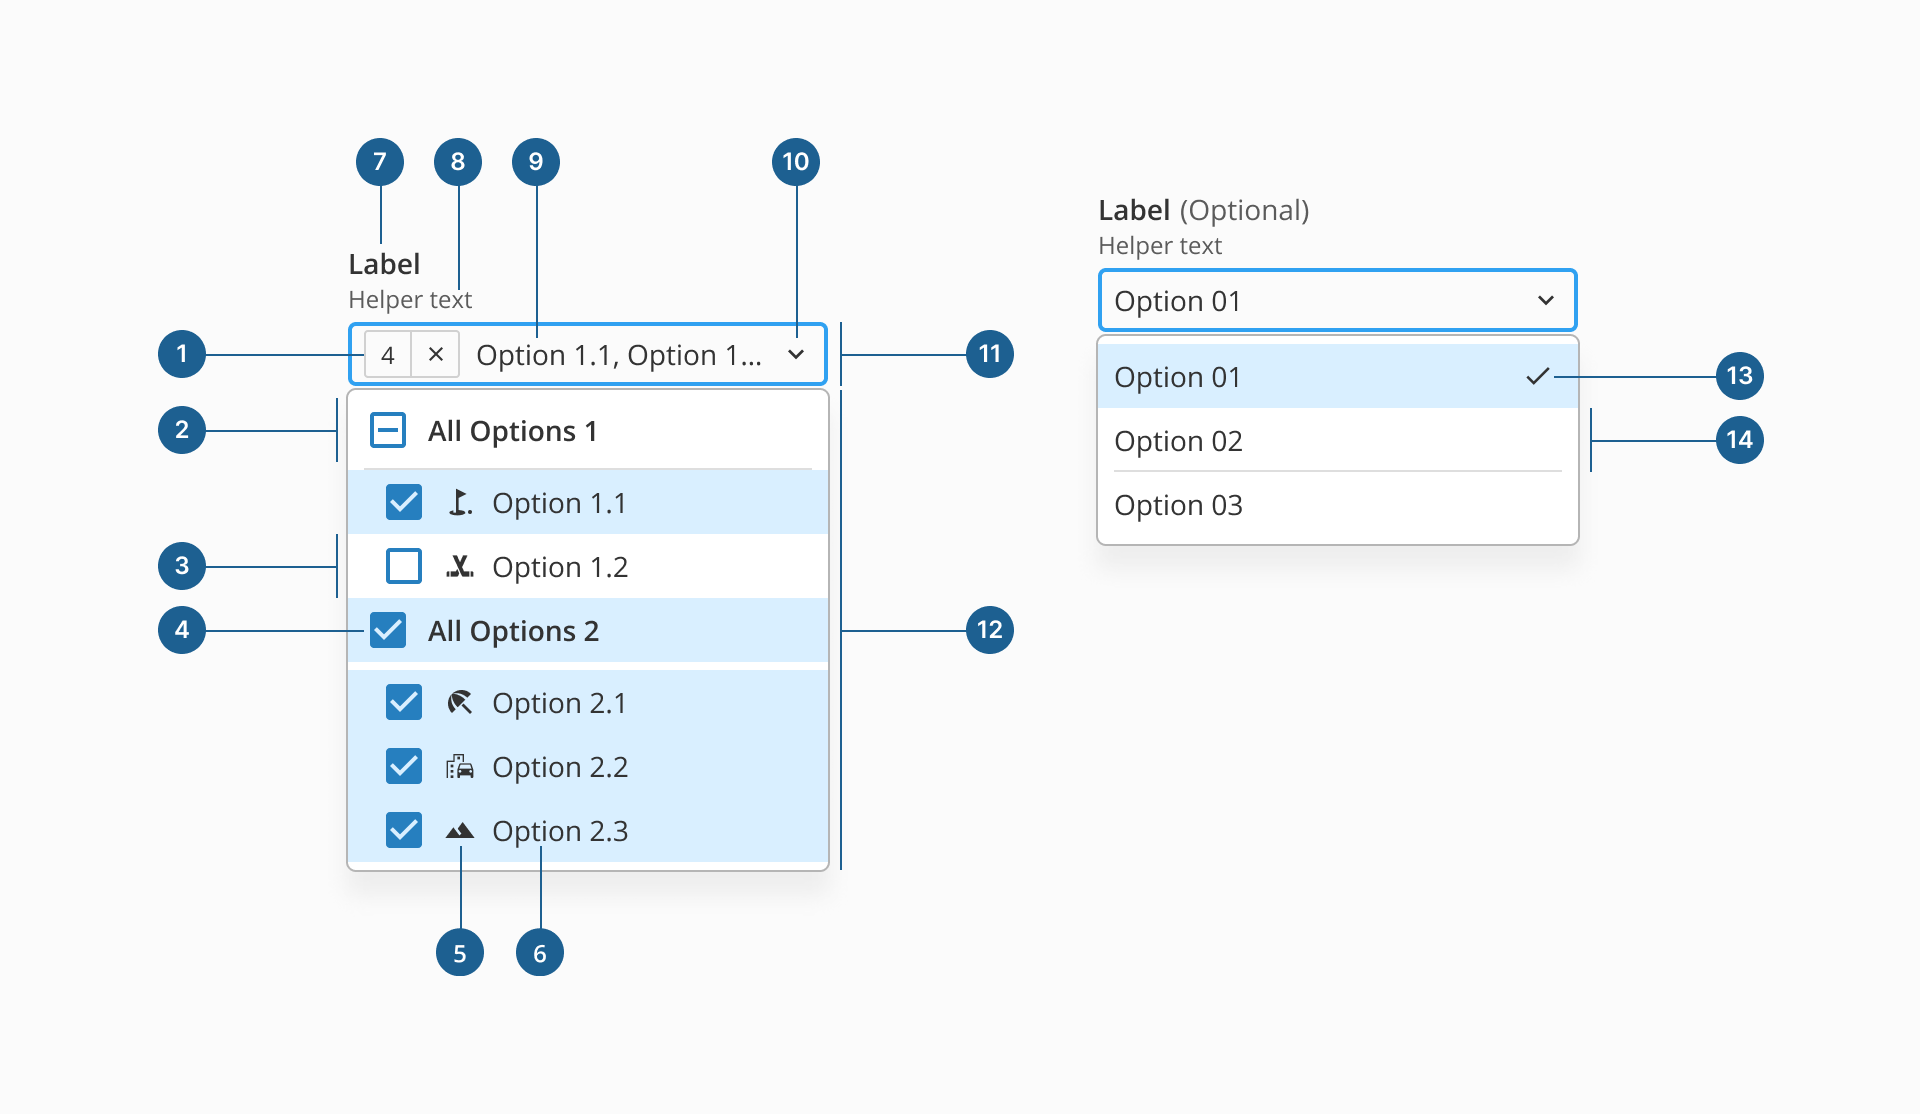
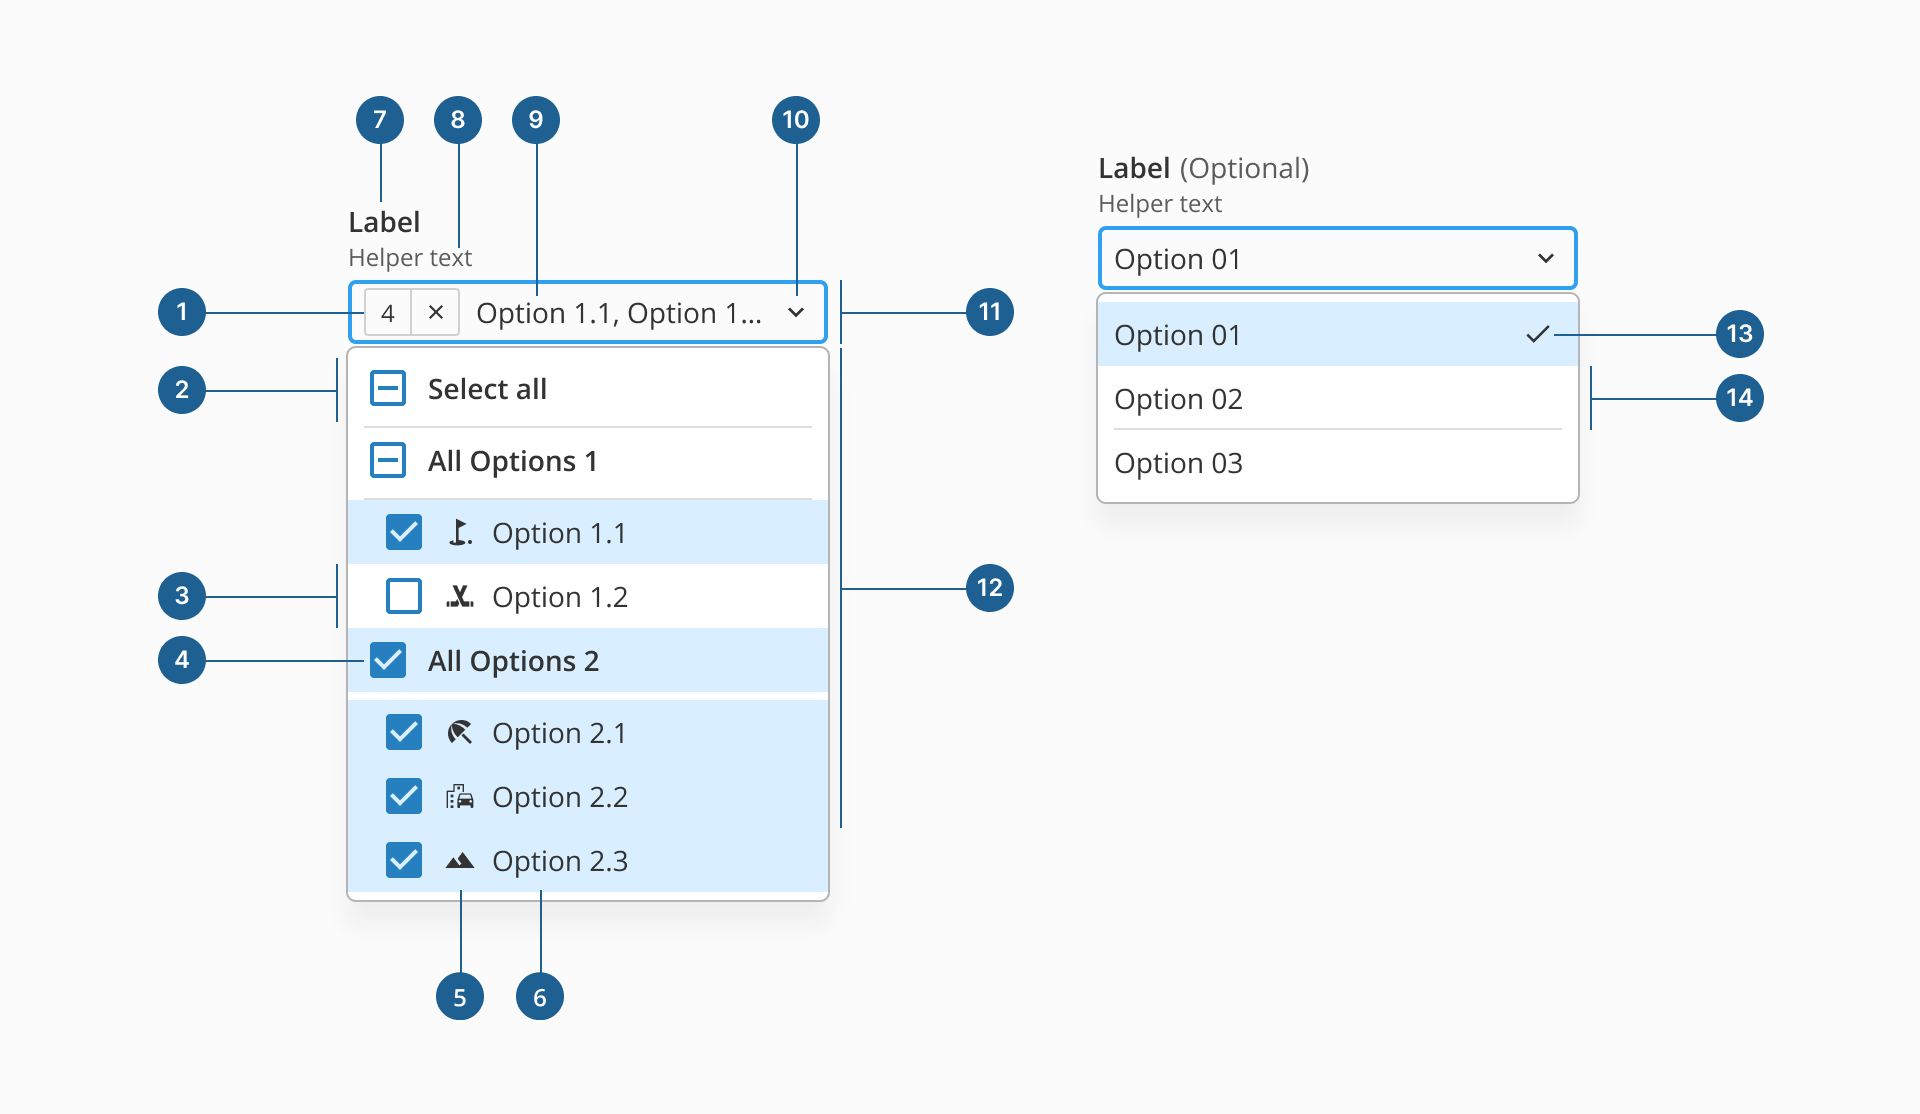
Select all designers feedback

diff --git a/packages/lib/src/select/ListOption.tsx b/packages/lib/src/select/ListOption.tsx
@@ -24,7 +24,6 @@ const OptionItem = styled.li<{
 
 const StyledOption = styled.span<{
   grouped: OptionProps["isGroupedOption"];
-  isSelectAllOption: OptionProps["isSelectAllOption"];
   last: OptionProps["isLastOption"];
   selected: OptionProps["isSelected"];
   visualFocused: OptionProps["visualFocused"];
@@ -35,7 +34,6 @@ const StyledOption = styled.span<{
   gap: var(--spacing-gap-s);
   height: var(--height-m);
   ${({ grouped }) => grouped && "padding-left: var(--spacing-padding-s);"}
-  ${({ isSelectAllOption }) => isSelectAllOption && "margin-bottom: var(--spacing-padding-xxs);"}
   ${(props) =>
     `border-bottom: var(--border-width-s) var(--border-style-default) 
     ${props.last || props.visualFocused || props.selected ? "transparent" : "var(--border-color-neutral-lighter)"};`};
@@ -110,13 +108,7 @@ const ListOption = ({
         selected={isSelected}
         visualFocused={visualFocused}
       >
-        <StyledOption
-          isSelectAllOption={isSelectAllOption}
-          grouped={isGroupedOption}
-          selected={isSelected}
-          visualFocused={visualFocused}
-          last={isLastOption}
-        >
+        <StyledOption grouped={isGroupedOption} last={isLastOption} selected={isSelected} visualFocused={visualFocused}>
           {multiple && <DxcCheckbox checked={isSelected} tabIndex={-1} ref={checkboxRef} />}
           {option.icon && (
             <OptionIcon>{typeof option.icon === "string" ? <DxcIcon icon={option.icon} /> : option.icon}</OptionIcon>
